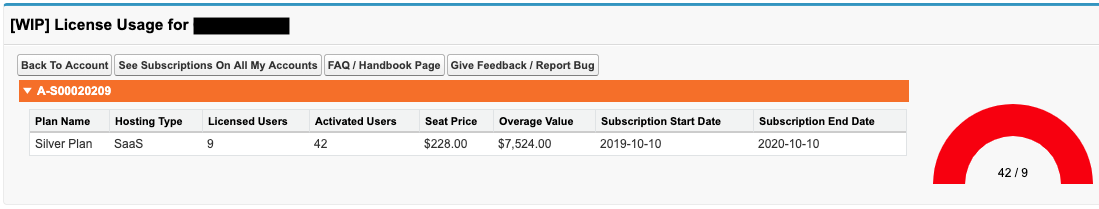
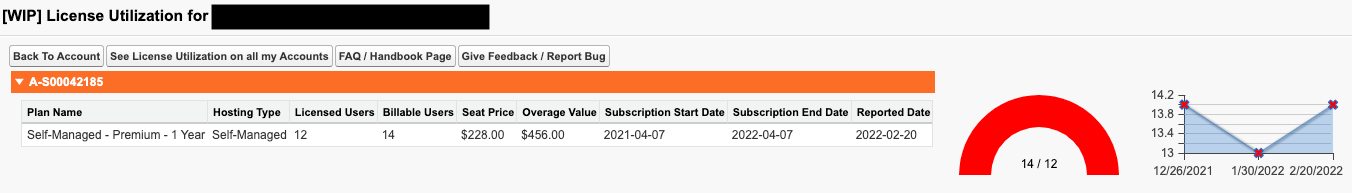
Update license utilization SFDC app page

Changed region(s): [[0.0, 0.2176, 1.0, 0.9326], [0.0, 0.0, 1.0, 0.1865]]

diff --git a/sales/field-operations/sales-systems/license-usage-app/index.html.md b/sales/field-operations/sales-systems/license-usage-app/index.html.md
@@ -1,7 +1,7 @@
 ---
 layout: handbook-page-toc
-title: "License Usage Salesforce App"
-description: "This page outlines the License Usage Salesforce App. It includes both information for the end user, answers frequently asked questions as well as highlights the location of the related techincal logic in the code."
+title: "License Utilization Salesforce App"
+description: "This page outlines the License Utilization Salesforce App. It includes both information for the end user, answers frequently asked questions as well as highlights the location of the related techincal logic in the code."
 ---
 
 ## On this page
@@ -10,56 +10,57 @@ description: "This page outlines the License Usage Salesforce App. It includes b
 - TOC
 {:toc .hidden-md .hidden-lg}
 
-## How to Use LicenseDot
+## How to Use License Utilization Salesforce App
 
 1. Navigate to any customer account in Salesforce.
-1. Click on the License Usage button at the top of the layout.
-![License Usage Button On Account Layout](/handbook/sales/field-operations/sales-systems/license-usage-app/buttonss.png)
-1. Review the current usage of Activated vs Entitled users on all Subscriptions related to the Account.
-![License Usage Button On Account Layout](/handbook/sales/field-operations/sales-systems/license-usage-app/appss.png)
-1. To get a summary of license usage across all your accounts click "See License Usage on all my Accounts"
-1. To give feedback or ideas for the License Usage app click "Give Feedback / Report Bug" and comment on the issue.
+1. Click on the License Utilization button at the top of the layout.
+![License Utilization Button On Account Layout](/buttonss_v2.png)
+1. Review the current usage of Billable vs Entitled users on all Subscriptions related to the Account.
+![License Utilization Button On Account Layout](/appss.png)
+1. To get a summary of License Utilization across all your accounts click "See License Utilization on all my Accounts"
+1. To give feedback or ideas for the License Utilization app click "Give Feedback / Report Bug" and comment on the issue.
 
 ## Frequently Asked Questions (FAQ)
 
-**Question: Activated Users is great, but when will I be able to see SMAU and other activity metrics?**<br />
-Answer: The Product and Data teams are working to get these metrics at the subscription level, and when they do we will add to this dash! [Follow the progress here](https://docs.google.com/document/d/17dw3qpX5PbvF_WwQXNEQuCPqGUcng1zy85R-2fIL1k8/edit#heading=h.t3mpohrk83kp).
+**Question: Billable Users is great, but when will I be able to see SMAU and other activity metrics?**<br />
+Answer: The Product and Data teams are working to get these metrics at the subscription level, and when they do we will add to this dash! [Follow the progress here](https://docs.google.com/presentation/d/1_v4hxKdbL6--UjpjVdveGEGD_MjmUnBg0-OIU1R14m8/edit#slide=id.p) (GitLab internal only).
 
 
 **Question: I viewed one of my Accounts, and some of the Subscription Data says "Not Available", what went wrong?**<br />
-Answer: Activated User data is not yet available for some subscriptions based on Namespace collisons or requires enhancement to Seatlink. Some subscriptions will never recieve their activated user count because of air gapped hosting. In either scenario please [post on the Feedback issue](https://gitlab.com/gitlab-com/sales-team/field-operations/systems/-/issues/912) if you think the customer's subscription data should be available.
+Answer: Billable User data is not yet available for some subscriptions based on the customer needing to send data (opted into Service Ping **or** is sending data via Cloud License) and be on version 14.1+. Some subscriptions will never receive their Billable User count because of air gapped hosting. In either scenario please [post on the Feedback issue](https://gitlab.com/gitlab-com/sales-team/field-operations/systems/-/issues/1149) if you think the customer's subscription data should be available.
 
 **Question: I expected there to be more (or less) Subscriptions related to the Account then was is appearing, why is this?**<br />
 Answer: Please confirm in the #Sales-Support slack room if you think viewing the app uncovered and issue with the customer's Subscriptions.
 
 ## Data Definitions
 
-| Data Point              | Description                                  | Source              |
-|-------------------------|----------------------------------------------|---------------------|
-| Plan Name               | Subscription GitLab Tier                     | Zuora 360           |
-| Hosting Type            | GitLab.com vs Self Managed                   | Data Team Dashboard |
-| Licensed Users          | Quantity of licenses sold                    | Zuora 360           |
-| Activated Users         | Quantity of users activated                  | Data Team Dashboard |
-| Seat Price              | MAX of Seat Price                            | Zuora 360           |
-| Overage Value           | If Over: (Activated - Licensed) x Seat Price | Calculated          |
-| Subscription Start Date | Subscription Term Start                      | Zuora 360           |
-| Subscription End Date   | Subscription Term End                        | Zuora 360           |
+| Data Point              | Description                                     | Source              |
+|-------------------------|-------------------------------------------------|---------------------|
+| Plan Name               | Subscription GitLab Tier                        | Zuora 360           |
+| Hosting Type            | GitLab.com vs Self Managed                      | Data Team Dashboard |
+| Licensed Users          | Quantity of licenses sold                       | Zuora 360           |
+| Billable Users          | Quantity of users who count toward being billed | Service Ping        |
+| Seat Price              | MAX of Seat Price                               | Zuora 360           |
+| Overage Value           | If Over: (Billable - Licensed) x Seat Price     | Calculated          |
+| Subscription Start Date | Subscription Term Start                         | Zuora 360           |
+| Subscription End Date   | Subscription Term End                           | Zuora 360           |
+| Reported Date           | Date we last received billable user data        | Service Ping        |
 
 ## How Does This Work?
 
-First, product usage data is uploaded into Salesforce as a .csv file attachment to a License Usage Run record. When triggered, the Run calls classes which read the .csv and inserts License Usage records. Each of these License Usage records know which Zuora Subscription it relates to and through this, which Customer Subscription as well. Then, we run a process which collects information from Licese Usage and Zuora Subscription Product Charge records and stamps the related Customer Subscription. On each Account record page, a button has been added which brings you to another page. This page displays all Active Customer Subscriptions related to that Account that entitle the customer to licenses.
+First, product usage data is uploaded into Salesforce as a .csv file attachment to a License Utilization Run record. When triggered, the Run calls classes which read the .csv and inserts License Utilization records. Each of these License Utilization records know which Zuora Subscription it relates to and through this, which Customer Subscription as well. Then, we run a process which collects information from Licese Usage and Zuora Subscription Product Charge records and stamps the related Customer Subscription. On each Account record page, a button has been added which brings you to another page. This page displays all Active Customer Subscriptions related to that Account that entitle the customer to licenses.
 
 ## Logic Locations
 
 * [LicenseUsageRun.trigger](https://gitlab.com/gitlab-com/sales-team/field-operations/salesforce-src/-/blob/master/force-app/main/default/triggers/LicenseUsageRun.trigger)
-    * Listens for the "Execute Run" checkbox to change values to begin the process of inserting new License Usage records.
+    * Listens for the "Execute Run" checkbox to change values to begin the process of inserting new License Utilization records.
 * [LicenseUsageBatcher.cls](https://gitlab.com/gitlab-com/sales-team/field-operations/salesforce-src/-/blob/master/force-app/main/default/classes/LicenseUsageBatcher.cls)
-    * Called from `LicenseUsageRun.trigger`. Used to break up the insertion of License Usage records into batches.
+    * Called from `LicenseUsageRun.trigger`. Used to break up the insertion of License Utilization records into batches.
 * [LicenseUsageCollector.cls](https://gitlab.com/gitlab-com/sales-team/field-operations/salesforce-src/-/blob/master/force-app/main/default/classes/LicenseUsageCollector.cls)
-    * Converts the rows of the .csv file into License Usage records and returns them so they can be inserted.
+    * Converts the rows of the .csv file into License Utilization records and returns them so they can be inserted.
 * [CustomerSubscriptionInfoGatherer.cls](https://gitlab.com/gitlab-com/sales-team/field-operations/salesforce-src/-/blob/master/force-app/main/default/classes/CustomerSubscriptionInfoGatherer.cls)
-    * Collects information from the most up-to-date License Usage records as well as Subscription Product Charges in batches. It stamps the info onto each related Customer Subscription. This class also does some basic data processing such as determining if there are multiple products and calculating total entitled seat count. This is done to make displaying this data simpler for `LicenseUsage.cls`.
+    * Collects information from the most up-to-date License Utilization records as well as Subscription Product Charges in batches. It stamps the info onto each related Customer Subscription. This class also does some basic data processing such as determining if there are multiple products and calculating total entitled seat count. This is done to make displaying this data simpler for `LicenseUsage.cls`.
 * [LicenseUsage.cls](https://gitlab.com/gitlab-com/sales-team/field-operations/salesforce-src/-/blob/master/force-app/main/default/classes/LicenseUsage.cls)
     * The controller for `LicenseUsage.page`. Collects only the Customer Subscriptions related to the Account. Ensures the data will properly display the Seat Usage graph.
 * [LicenseUsage.page](https://gitlab.com/gitlab-com/sales-team/field-operations/salesforce-src/-/blob/master/force-app/main/default/pages/LicenseUsage.page)
-    * The page you are brought to by the button on the Account page. Displays all Customer Subscriptions with collected License Usage data.
+    * The page you are brought to by the button on the Account page. Displays all Customer Subscriptions with collected License Utilization data.
